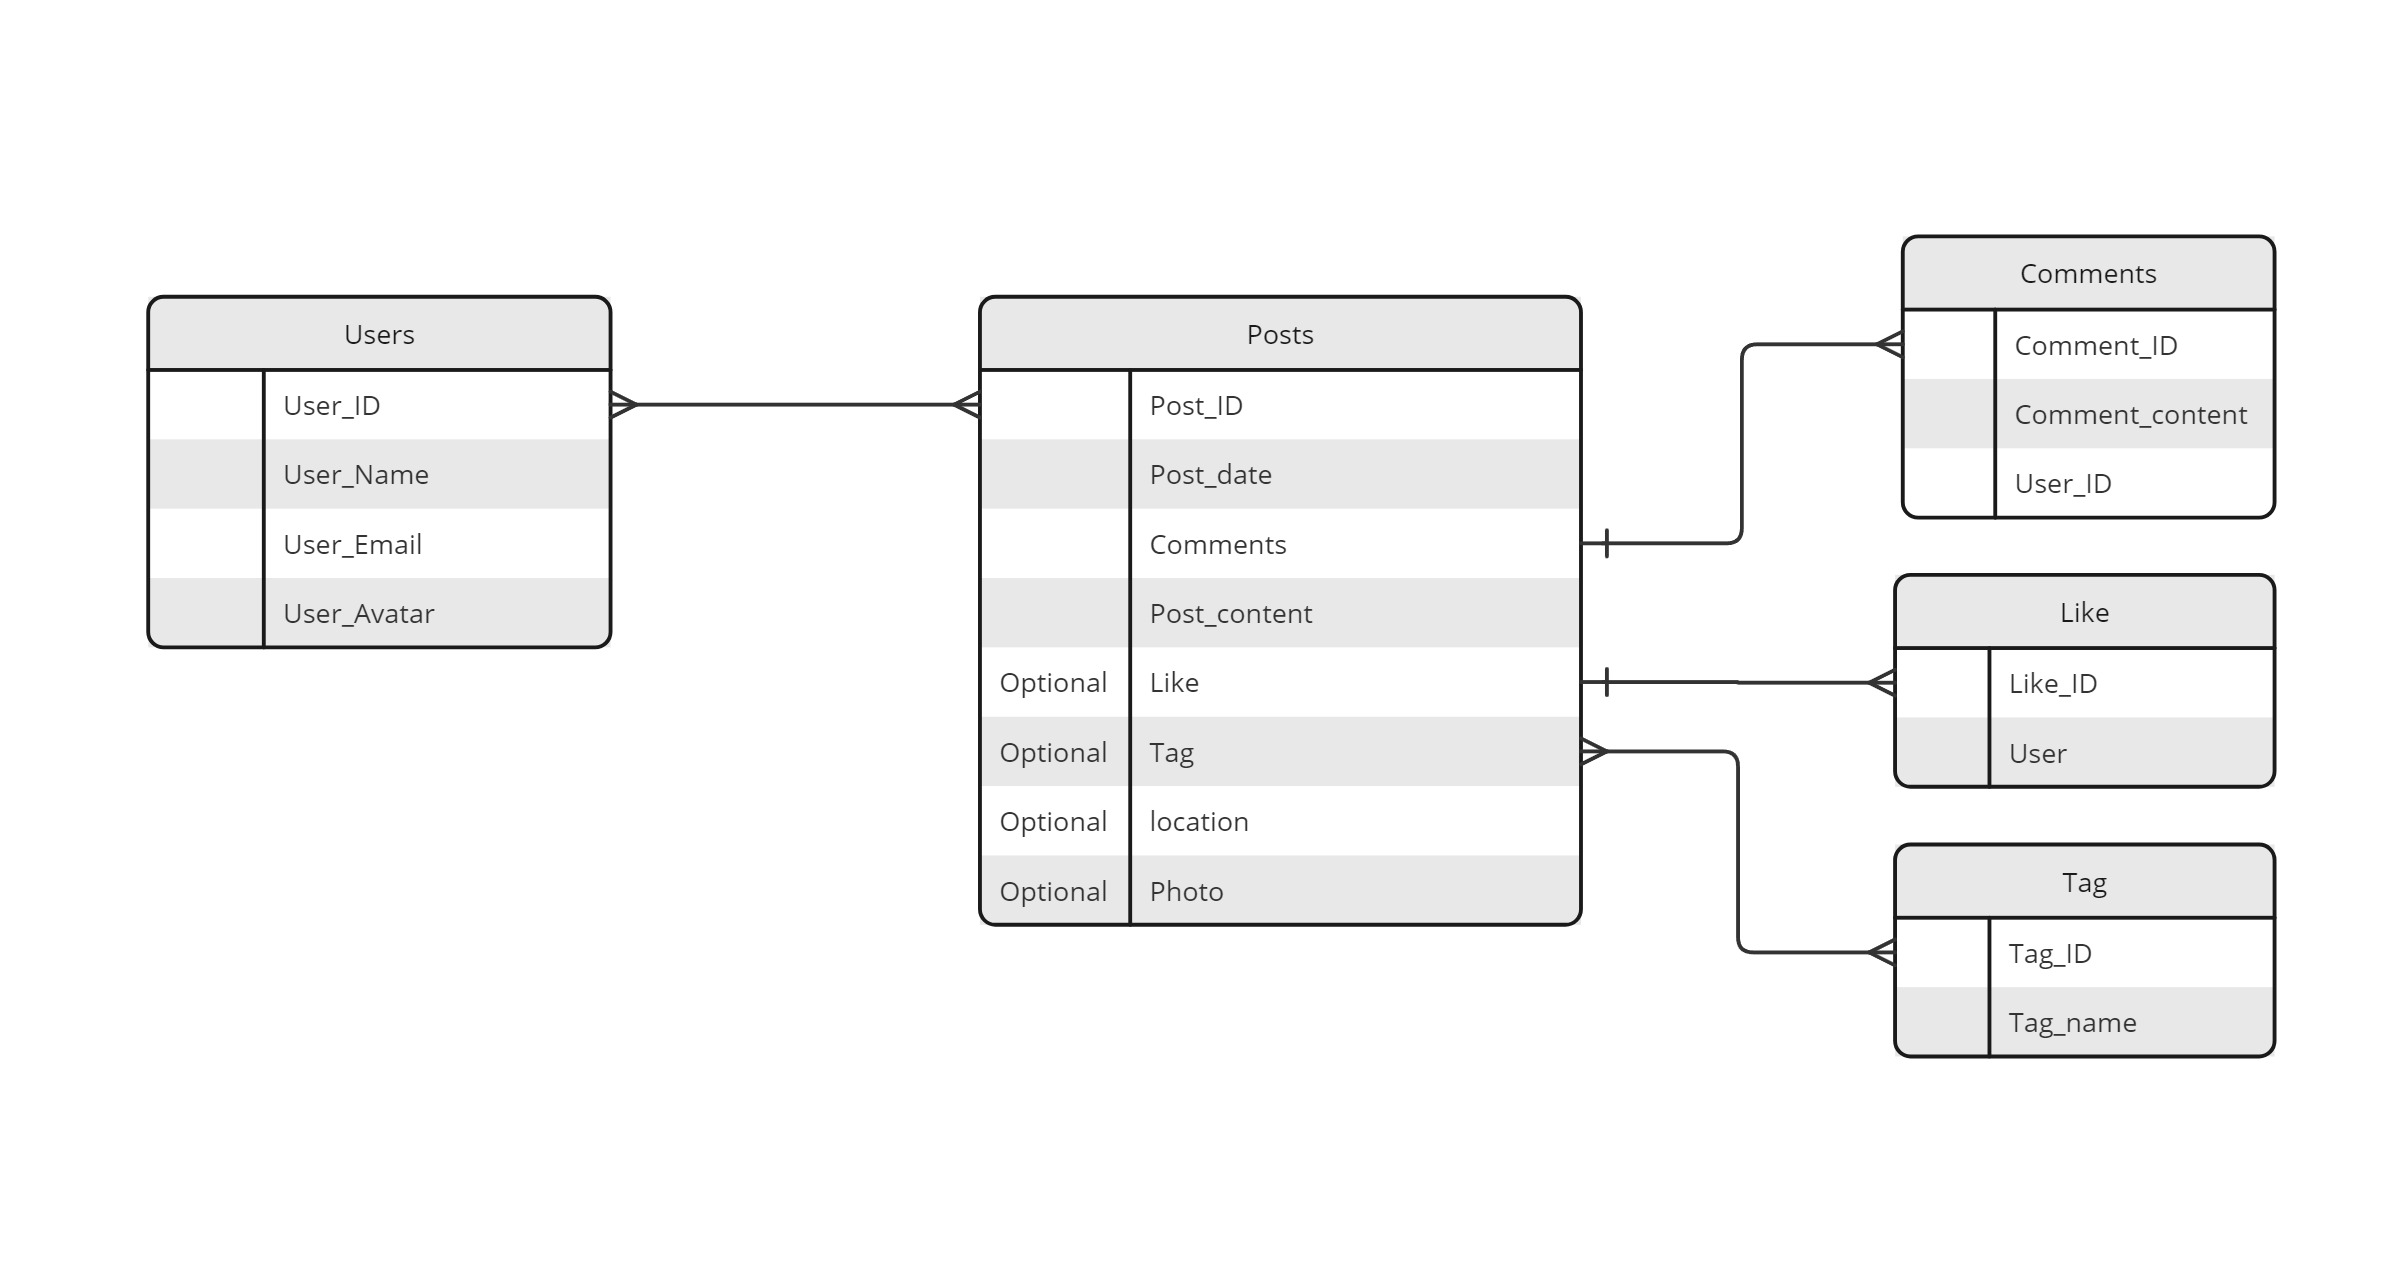
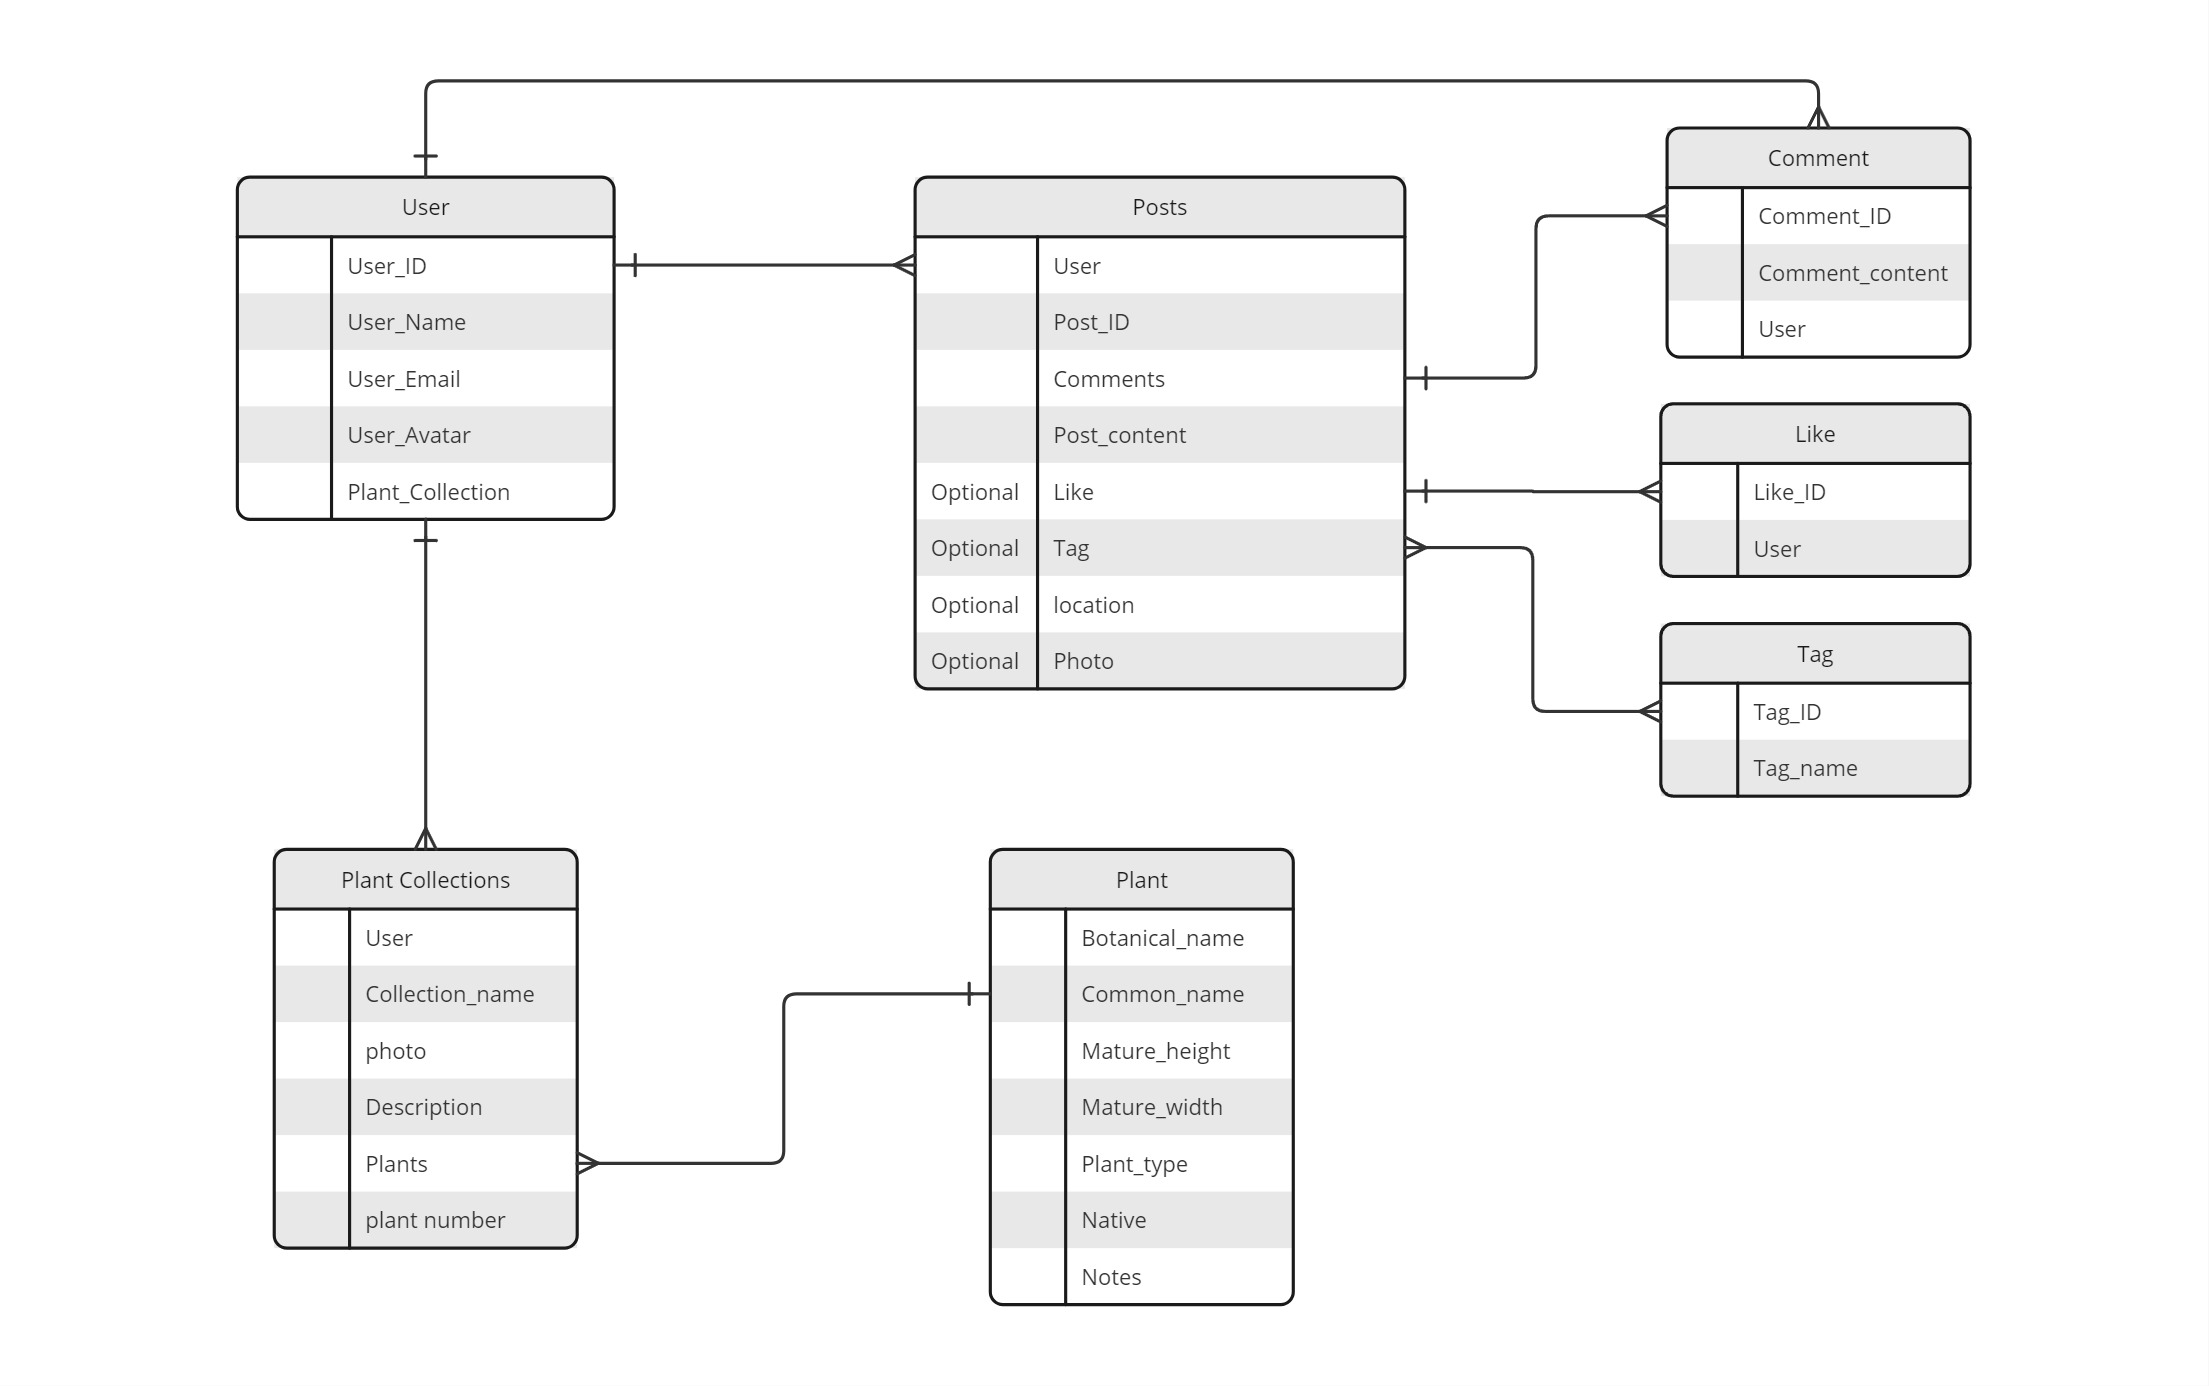
Styling for home, profile, post and comment page

diff --git a/public/stylesheets/content.css b/public/stylesheets/content.css
@@ -72,22 +72,35 @@ p{
     flex-direction: column
 }
 .part{
-  flex:1
+  flex:1;
 }
 
-#user-profile img {
-  height: 36px;
+.user-profile img {
+  width: 48px;
+  height: auto;
   border-radius: 50%; /* Make it circular */
 }
-#user-profile p {
+.user-profile-big img {
+  width: 64px;
+  height: auto;
+  border-radius: 50%; /* Make it circular */
+}
+.user-profile p {
   display:inline-block;
   padding-left: 10px;
 }
-#post-content {
+.user-profile h4 {
+  display:inline-block;
+  
+}
+
+.content {
   font-size: 18px;
   line-height: 1.5;
-  padding: 5px 0;
+  padding: 10px 0;
 }
+
+
 /* Style for post metadata (like date) */
 .metadata {
   font-size: 14px;
@@ -96,11 +109,25 @@ p{
   display: inline-block;
 }
 
+.metadata a{
+  font-size: 14px;
+  color: #888;
+  display: inline-block;
+}
+
 .icons{
   color:forestgreen;
   font-size: 16px;
   padding-left: 0px;
 }
+.icons ion-icon{
+  color:forestgreen;
+  font-size: 16px;
+  padding-left: 0px;
+  vertical-align: middle;
+}
+
+
 
 .icons a{
   color:forestgreen;
@@ -109,10 +136,31 @@ p{
   padding-left: 0px;
 }
 
+
 .post-time{
   padding-left: 0px;
   align-items: flex-start;
 }
+
+.time{
+  display: inline-block;
+}
+
+.del-btn{
+  background: none;
+  border: none;
+  padding: 0;
+  color: inherit;
+  font: inherit;
+  cursor: pointer;
+}
+
+/* My profile page */
+h4{
+  padding-left: 12px;;
+}
+
+
 
 /* My plant collection page */
 

diff --git a/models/plantCollection.js b/models/plantCollection.js
@@ -1,19 +1,55 @@
 const mongoose = require('mongoose');
 const Schema = mongoose.Schema;
 
+
+const plantSchema = new Schema({
+    botanicalName: {
+        type: String
+    },
+    commonName: {
+        type: String
+    },
+    matureHeight:{
+        type: Number
+    },
+    matureWidth:{
+        type: Number
+    },
+    plantType:{
+        type: String,
+        enum: ['Tree', 'Shrub', 'Groundcover', 'Tufting','Succulent']
+    },
+    Native: {
+        type: Boolean, 
+        default: true
+    },
+    Notes: {
+        type: String
+    }
+},{timestamps: true});
+
 const plantCollectionSchema = new Schema({
+    user: {
+        type: Schema.Types.ObjectId,
+        ref: 'User',
+        required: true
+    },
     description: {
-       type: String
+        type: String
     },
     collectionName: {
         type: String,
         required: true
     },
-    cover: {
+    photo: {
         type: String,
         default: "/images/logo.png" //path to default image file
+    },
+    plants: {
+       plantSchema
     }
- }, { timestamps: true })
 
- 
+}, { timestamps: true })
+
+
 module.exports = mongoose.model('PlantCollection', plantCollectionSchema);

diff --git a/controllers/posts.js b/controllers/posts.js
@@ -42,12 +42,12 @@ async function create(req, res) {
 
 async function show(req, res) {
     try {
-        console.log(req.params)
+        // console.log(req.params)
         const post = await Post.findById(req.params.id);
         if (!post) {
             return res.send('Post not found');
         }
-        console.log('this is post info:', post);
+        // console.log('this is post info:', post);
         res.render('posts/show', { post });
     } catch (error) {
         console.error('Error fetching post:', error);
@@ -87,7 +87,7 @@ async function Deletepost(req, res){
     console.log(post)
     if (!post) return res.redirect('/home');
 
-    // await post.remove();
     await Post.findByIdAndDelete(req.params.id);
     res.redirect('/home')
 }
+

diff --git a/models/user.js b/models/user.js
@@ -8,7 +8,11 @@ const userSchema = new Schema({
       required: true
     },
     email: String,
-    avatar: String
+    avatar: String,
+    plantCollections:{
+      type: Schema.Types.ObjectId,
+      ref: 'plantCollection'
+    }
   }, {
     timestamps: true
   });
